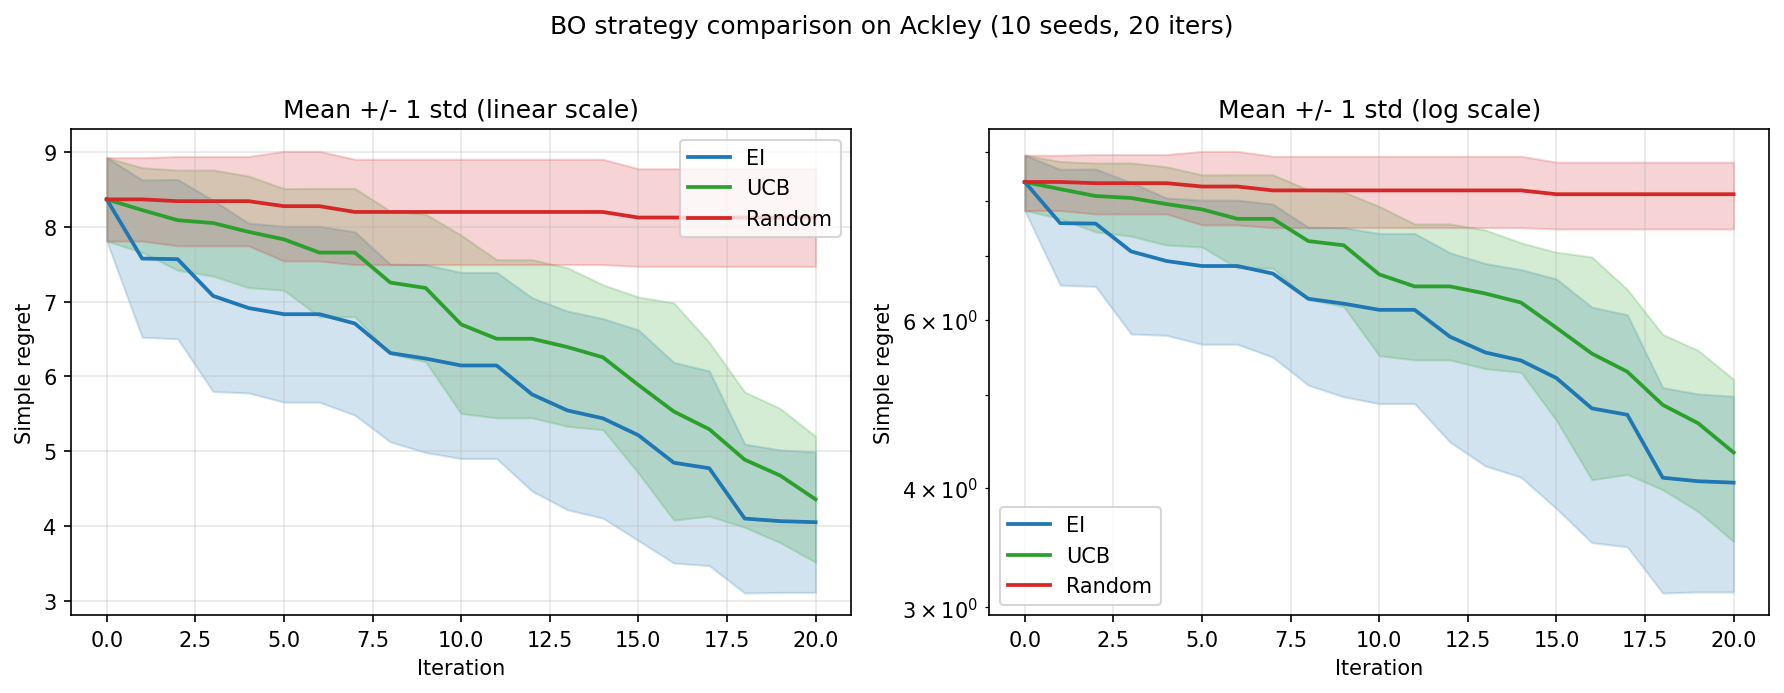
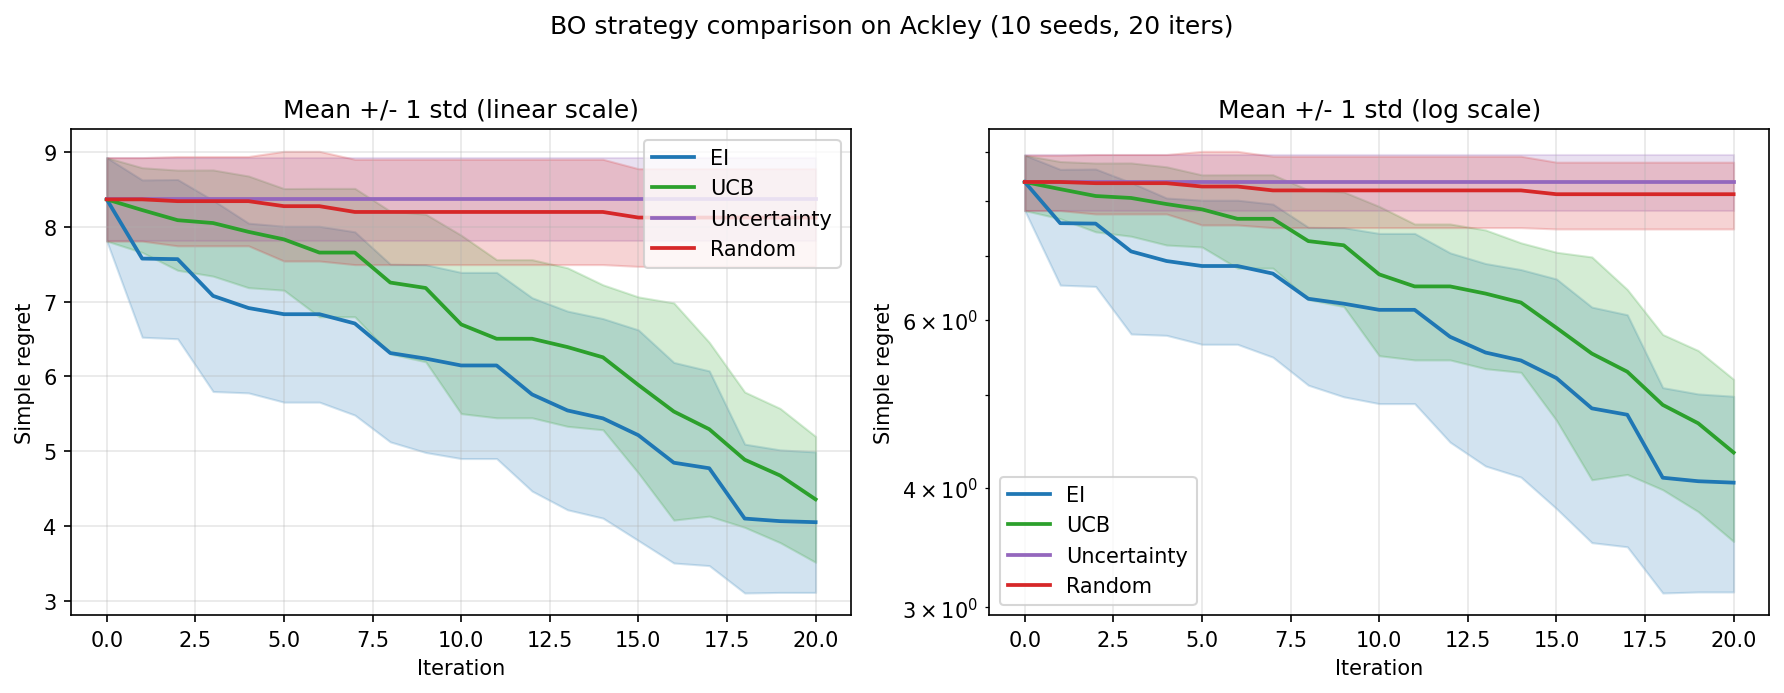
Extend Friedman/Nemenyi to 4 strategies; Uncertainty clusters with Random

diff --git a/experiments/exp_03_friedman_nemenyi.py b/experiments/exp_03_friedman_nemenyi.py
@@ -27,7 +27,7 @@ from scipy.stats import studentized_range
 warnings.filterwarnings("ignore")
 
 PROBLEMS = ["branin", "hartmann6", "ackley", "sixhumpcamel", "borehole", "piston"]
-STRATEGIES = ["EI", "UCB", "Random"]
+STRATEGIES = ["EI", "UCB", "Uncertainty", "Random"]
 ALPHA = 0.05
 
 